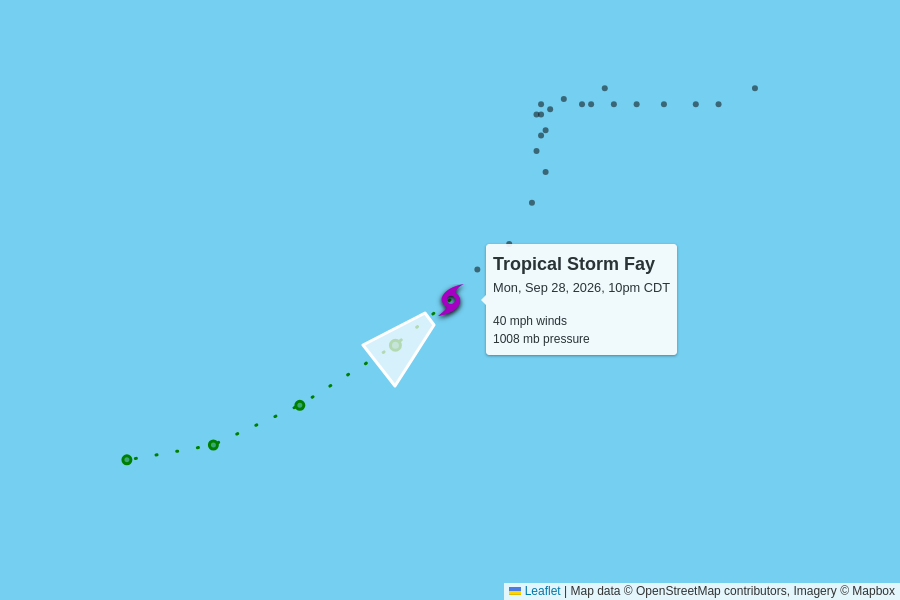
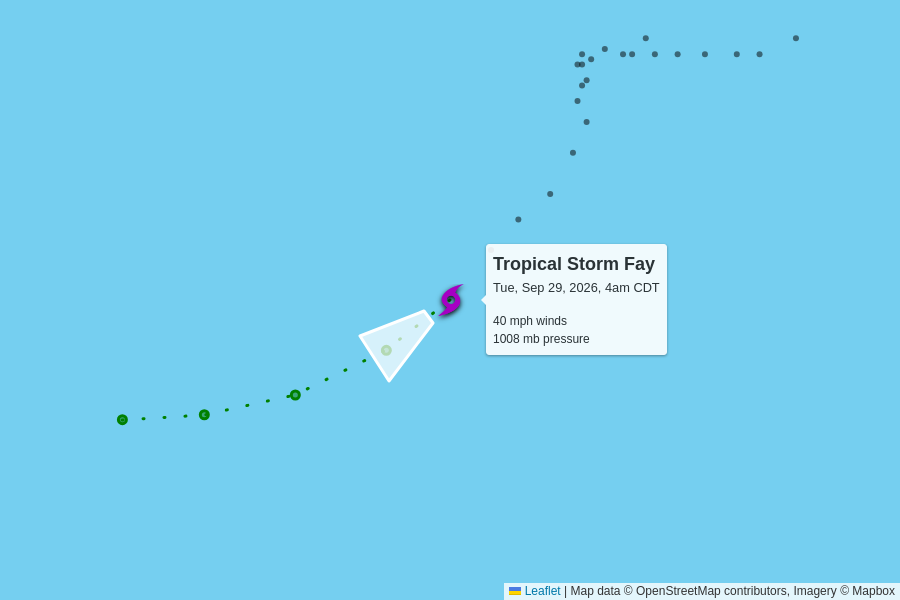
automatic update

diff --git a/docs/2026.html b/docs/2026.html
@@ -44,6 +44,95 @@
 
       <grid-container>
           <grid-row>
+            <script type="text/json" id="storm_data_AL062026">
+              {"pressure":[{"timestamp":"2026-09-19T15:00:00.000Z","value":1009},{"timestamp":"2026-09-19T21:00:00.000Z","value":1007},{"timestamp":"2026-09-20T03:00:00.000Z","value":1007},{"timestamp":"2026-09-20T09:00:00.000Z","value":1004},{"timestamp":"2026-09-20T15:00:00.000Z","value":1004},{"timestamp":"2026-09-20T21:00:00.000Z","value":999},{"timestamp":"2026-09-21T03:00:00.000Z","value":995},{"timestamp":"2026-09-21T09:00:00.000Z","value":997},{"timestamp":"2026-09-21T15:00:00.000Z","value":1000},{"timestamp":"2026-09-21T21:00:00.000Z","value":1004},{"timestamp":"2026-09-22T03:00:00.000Z","value":1008},{"timestamp":"2026-09-22T09:00:00.000Z","value":1009},{"timestamp":"2026-09-22T15:00:00.000Z","value":1010},{"timestamp":"2026-09-22T21:00:00.000Z","value":1011},{"timestamp":"2026-09-23T21:00:00.000Z","value":1011},{"timestamp":"2026-09-24T03:00:00.000Z","value":1010},{"timestamp":"2026-09-24T09:00:00.000Z","value":1010},{"timestamp":"2026-09-24T15:00:00.000Z","value":1005},{"timestamp":"2026-09-24T21:00:00.000Z","value":1005},{"timestamp":"2026-09-25T03:00:00.000Z","value":1005},{"timestamp":"2026-09-25T09:00:00.000Z","value":1004},{"timestamp":"2026-09-25T15:00:00.000Z","value":1002},{"timestamp":"2026-09-25T21:00:00.000Z","value":1004},{"timestamp":"2026-09-26T03:00:00.000Z","value":1006},{"timestamp":"2026-09-26T09:00:00.000Z","value":1009},{"timestamp":"2026-09-26T15:00:00.000Z","value":1009},{"timestamp":"2026-09-26T21:00:00.000Z","value":1009},{"timestamp":"2026-09-27T03:00:00.000Z","value":1010},{"timestamp":"2026-09-27T09:00:00.000Z","value":1010},{"timestamp":"2026-09-27T15:00:00.000Z","value":1010},{"timestamp":"2026-09-27T21:00:00.000Z","value":1011},{"timestamp":"2026-09-28T03:00:00.000Z","value":1012},{"timestamp":"2026-09-28T09:00:00.000Z","value":1012},{"timestamp":"2026-09-28T15:00:00.000Z","value":1011},{"timestamp":"2026-09-28T21:00:00.000Z","value":1011},{"timestamp":"2026-09-29T03:00:00.000Z","value":1008},{"timestamp":"2026-09-29T09:00:00.000Z","value":1008}],"wind":[{"timestamp":"2026-09-19T15:00:00.000Z","value":35},{"timestamp":"2026-09-19T21:00:00.000Z","value":35},{"timestamp":"2026-09-20T03:00:00.000Z","value":35},{"timestamp":"2026-09-20T09:00:00.000Z","value":45},{"timestamp":"2026-09-20T15:00:00.000Z","value":60},{"timestamp":"2026-09-20T21:00:00.000Z","value":65},{"timestamp":"2026-09-21T03:00:00.000Z","value":70},{"timestamp":"2026-09-21T09:00:00.000Z","value":65},{"timestamp":"2026-09-21T15:00:00.000Z","value":50},{"timestamp":"2026-09-21T21:00:00.000Z","value":45},{"timestamp":"2026-09-22T03:00:00.000Z","value":40},{"timestamp":"2026-09-22T09:00:00.000Z","value":40},{"timestamp":"2026-09-22T15:00:00.000Z","value":35},{"timestamp":"2026-09-22T21:00:00.000Z","value":35},{"timestamp":"2026-09-23T21:00:00.000Z","value":35},{"timestamp":"2026-09-24T03:00:00.000Z","value":40},{"timestamp":"2026-09-24T09:00:00.000Z","value":40},{"timestamp":"2026-09-24T15:00:00.000Z","value":50},{"timestamp":"2026-09-24T21:00:00.000Z","value":50},{"timestamp":"2026-09-25T03:00:00.000Z","value":50},{"timestamp":"2026-09-25T09:00:00.000Z","value":50},{"timestamp":"2026-09-25T15:00:00.000Z","value":60},{"timestamp":"2026-09-25T21:00:00.000Z","value":50},{"timestamp":"2026-09-26T03:00:00.000Z","value":40},{"timestamp":"2026-09-26T09:00:00.000Z","value":35},{"timestamp":"2026-09-26T15:00:00.000Z","value":35},{"timestamp":"2026-09-26T21:00:00.000Z","value":35},{"timestamp":"2026-09-27T03:00:00.000Z","value":35},{"timestamp":"2026-09-27T09:00:00.000Z","value":35},{"timestamp":"2026-09-27T15:00:00.000Z","value":35},{"timestamp":"2026-09-27T21:00:00.000Z","value":35},{"timestamp":"2026-09-28T03:00:00.000Z","value":30},{"timestamp":"2026-09-28T09:00:00.000Z","value":35},{"timestamp":"2026-09-28T15:00:00.000Z","value":35},{"timestamp":"2026-09-28T21:00:00.000Z","value":35},{"timestamp":"2026-09-29T03:00:00.000Z","value":40},{"timestamp":"2026-09-29T09:00:00.000Z","value":40}]}
+            </script>              <grid-container class="storm">
+                <grid-row onClick="toggle('storm_AL062026')">
+                  <h2>
+                    Tropical Storm Fay
+                    <div class="updated">
+                      last updated <time datetime="2026-09-29T09:00:00.000Z">2026-09-29T09:00:00.000Z</time>
+                    </div>
+                  </h2>
+                </grid-row>
+                <grid-row id="storm_AL062026">
+                  <grid-column>
+                    <table>
+                      <tr>
+                        <th>wind speed</th>
+                        <th>central pressure</th>
+                        <th>movement</th>
+                        <th>data (CSV)</th>
+                        <th>National Hurricane Center</th>
+                      </tr>
+                      <tr>
+                        <td>
+                          40 mph
+                          <br>
+                          0 mph since last update
+                        </td>
+                        <td>
+                          1008 mb
+                          <br>
+                          0 mb since last update
+                        </td>
+                        <td>
+                          13 mph to the southwest
+                          <br>
+                          <span style="display: inline-block; font-size: 1.5em; transform: rotate(235deg);">↑</span>
+                        </td>
+                        <td>
+                          <a href="https://raw.githubusercontent.com/mgwalker/atlantic-hurricanes/main/data/csv/AL062026.csv">AL062026.csv</a>
+                        </td>
+                        <td>
+                          <a href="https://www.nhc.noaa.gov/archive/2026/FAY.shtml?">NHC advisories</a>
+                        </td>
+                      </tr>
+                      <tr>
+                        <td colspan="5">
+                        </td>
+                      </tr>
+                    </table>
+                    <figure>
+                      <img src="AL062026.png">
+                      <figcaption>
+                        Map data &copy; <a href="https://www.openstreetmap.org/copyright">OpenStreetMap</a> contributors, Imagery &copy; <a href="https://www.mapbox.com/">Mapbox</a> | <a href="https://www.mapbox.com/map-feedback/" target="_blank">Improve this map</a>
+                      </figcaption>
+                    </figure>
+                      <div class="chart-container">
+                        <h3>Maximum sustained winds</h3>
+                        <div>
+                          <canvas id="chart_wind_AL062026"></canvas>
+                        </div>
+                      </div>
+                      <div class="chart-container">
+                        <h3>Minimum central pressure</h3>
+                        <div style="width:100%;">
+                          <canvas id="chart_pressure_AL062026"></canvas>
+                        </div>
+                      </div>
+                    
+                    
+                    <script type="module">
+                      const data = JSON.parse(document.getElementById("storm_data_AL062026").textContent);
+                      
+                      if(data.wind) {
+                        const canvas = document.getElementById("chart_wind_AL062026");
+                        createChart(canvas, data.wind, "mph");
+                      }
+                      if(data.pressure) {
+                        const canvas = document.getElementById("chart_pressure_AL062026");
+                        createChart(canvas, data.pressure, "mb");
+                      }
+                      if(data.extents) {
+                        const canvas = document.getElementById("chart_extents_AL062026");
+                        createExtentChart(canvas, data.extents.tropical, data.extents.hurricane, "miles");
+                      }
+                    </script>
+                  </grid-column>
+                </grid-row>
+              </grid-container>          </grid-row>
+          <grid-row>
             <script type="text/json" id="storm_data_AL082026">
               {"pressure":[{"timestamp":"2026-09-28T15:00:00.000Z","value":1006},{"timestamp":"2026-09-28T21:00:00.000Z","value":1006},{"timestamp":"2026-09-29T03:00:00.000Z","value":1002},{"timestamp":"2026-09-29T09:00:00.000Z","value":1002}],"wind":[{"timestamp":"2026-09-28T15:00:00.000Z","value":45},{"timestamp":"2026-09-28T21:00:00.000Z","value":45},{"timestamp":"2026-09-29T03:00:00.000Z","value":45},{"timestamp":"2026-09-29T09:00:00.000Z","value":45}]}
             </script>              <grid-container class="storm">
@@ -126,95 +215,6 @@
                       }
                       if(data.extents) {
                         const canvas = document.getElementById("chart_extents_AL082026");
-                        createExtentChart(canvas, data.extents.tropical, data.extents.hurricane, "miles");
-                      }
-                    </script>
-                  </grid-column>
-                </grid-row>
-              </grid-container>          </grid-row>
-          <grid-row>
-            <script type="text/json" id="storm_data_AL062026">
-              {"pressure":[{"timestamp":"2026-09-19T15:00:00.000Z","value":1009},{"timestamp":"2026-09-19T21:00:00.000Z","value":1007},{"timestamp":"2026-09-20T03:00:00.000Z","value":1007},{"timestamp":"2026-09-20T09:00:00.000Z","value":1004},{"timestamp":"2026-09-20T15:00:00.000Z","value":1004},{"timestamp":"2026-09-20T21:00:00.000Z","value":999},{"timestamp":"2026-09-21T03:00:00.000Z","value":995},{"timestamp":"2026-09-21T09:00:00.000Z","value":997},{"timestamp":"2026-09-21T15:00:00.000Z","value":1000},{"timestamp":"2026-09-21T21:00:00.000Z","value":1004},{"timestamp":"2026-09-22T03:00:00.000Z","value":1008},{"timestamp":"2026-09-22T09:00:00.000Z","value":1009},{"timestamp":"2026-09-22T15:00:00.000Z","value":1010},{"timestamp":"2026-09-22T21:00:00.000Z","value":1011},{"timestamp":"2026-09-23T21:00:00.000Z","value":1011},{"timestamp":"2026-09-24T03:00:00.000Z","value":1010},{"timestamp":"2026-09-24T09:00:00.000Z","value":1010},{"timestamp":"2026-09-24T15:00:00.000Z","value":1005},{"timestamp":"2026-09-24T21:00:00.000Z","value":1005},{"timestamp":"2026-09-25T03:00:00.000Z","value":1005},{"timestamp":"2026-09-25T09:00:00.000Z","value":1004},{"timestamp":"2026-09-25T15:00:00.000Z","value":1002},{"timestamp":"2026-09-25T21:00:00.000Z","value":1004},{"timestamp":"2026-09-26T03:00:00.000Z","value":1006},{"timestamp":"2026-09-26T09:00:00.000Z","value":1009},{"timestamp":"2026-09-26T15:00:00.000Z","value":1009},{"timestamp":"2026-09-26T21:00:00.000Z","value":1009},{"timestamp":"2026-09-27T03:00:00.000Z","value":1010},{"timestamp":"2026-09-27T09:00:00.000Z","value":1010},{"timestamp":"2026-09-27T15:00:00.000Z","value":1010},{"timestamp":"2026-09-27T21:00:00.000Z","value":1011},{"timestamp":"2026-09-28T03:00:00.000Z","value":1012},{"timestamp":"2026-09-28T09:00:00.000Z","value":1012},{"timestamp":"2026-09-28T15:00:00.000Z","value":1011},{"timestamp":"2026-09-28T21:00:00.000Z","value":1011},{"timestamp":"2026-09-29T03:00:00.000Z","value":1008}],"wind":[{"timestamp":"2026-09-19T15:00:00.000Z","value":35},{"timestamp":"2026-09-19T21:00:00.000Z","value":35},{"timestamp":"2026-09-20T03:00:00.000Z","value":35},{"timestamp":"2026-09-20T09:00:00.000Z","value":45},{"timestamp":"2026-09-20T15:00:00.000Z","value":60},{"timestamp":"2026-09-20T21:00:00.000Z","value":65},{"timestamp":"2026-09-21T03:00:00.000Z","value":70},{"timestamp":"2026-09-21T09:00:00.000Z","value":65},{"timestamp":"2026-09-21T15:00:00.000Z","value":50},{"timestamp":"2026-09-21T21:00:00.000Z","value":45},{"timestamp":"2026-09-22T03:00:00.000Z","value":40},{"timestamp":"2026-09-22T09:00:00.000Z","value":40},{"timestamp":"2026-09-22T15:00:00.000Z","value":35},{"timestamp":"2026-09-22T21:00:00.000Z","value":35},{"timestamp":"2026-09-23T21:00:00.000Z","value":35},{"timestamp":"2026-09-24T03:00:00.000Z","value":40},{"timestamp":"2026-09-24T09:00:00.000Z","value":40},{"timestamp":"2026-09-24T15:00:00.000Z","value":50},{"timestamp":"2026-09-24T21:00:00.000Z","value":50},{"timestamp":"2026-09-25T03:00:00.000Z","value":50},{"timestamp":"2026-09-25T09:00:00.000Z","value":50},{"timestamp":"2026-09-25T15:00:00.000Z","value":60},{"timestamp":"2026-09-25T21:00:00.000Z","value":50},{"timestamp":"2026-09-26T03:00:00.000Z","value":40},{"timestamp":"2026-09-26T09:00:00.000Z","value":35},{"timestamp":"2026-09-26T15:00:00.000Z","value":35},{"timestamp":"2026-09-26T21:00:00.000Z","value":35},{"timestamp":"2026-09-27T03:00:00.000Z","value":35},{"timestamp":"2026-09-27T09:00:00.000Z","value":35},{"timestamp":"2026-09-27T15:00:00.000Z","value":35},{"timestamp":"2026-09-27T21:00:00.000Z","value":35},{"timestamp":"2026-09-28T03:00:00.000Z","value":30},{"timestamp":"2026-09-28T09:00:00.000Z","value":35},{"timestamp":"2026-09-28T15:00:00.000Z","value":35},{"timestamp":"2026-09-28T21:00:00.000Z","value":35},{"timestamp":"2026-09-29T03:00:00.000Z","value":40}]}
-            </script>              <grid-container class="storm">
-                <grid-row onClick="toggle('storm_AL062026')">
-                  <h2>
-                    Tropical Storm Fay
-                    <div class="updated">
-                      last updated <time datetime="2026-09-29T03:00:00.000Z">2026-09-29T03:00:00.000Z</time>
-                    </div>
-                  </h2>
-                </grid-row>
-                <grid-row id="storm_AL062026">
-                  <grid-column>
-                    <table>
-                      <tr>
-                        <th>wind speed</th>
-                        <th>central pressure</th>
-                        <th>movement</th>
-                        <th>data (CSV)</th>
-                        <th>National Hurricane Center</th>
-                      </tr>
-                      <tr>
-                        <td>
-                          40 mph
-                          <br>
-                          +5 mph since last update
-                        </td>
-                        <td>
-                          1008 mb
-                          <br>
-                          -3 mb since last update
-                        </td>
-                        <td>
-                          10 mph to the southwest
-                          <br>
-                          <span style="display: inline-block; font-size: 1.5em; transform: rotate(230deg);">↑</span>
-                        </td>
-                        <td>
-                          <a href="https://raw.githubusercontent.com/mgwalker/atlantic-hurricanes/main/data/csv/AL062026.csv">AL062026.csv</a>
-                        </td>
-                        <td>
-                          <a href="https://www.nhc.noaa.gov/archive/2026/FAY.shtml?">NHC advisories</a>
-                        </td>
-                      </tr>
-                      <tr>
-                        <td colspan="5">
-                        </td>
-                      </tr>
-                    </table>
-                    <figure>
-                      <img src="AL062026.png">
-                      <figcaption>
-                        Map data &copy; <a href="https://www.openstreetmap.org/copyright">OpenStreetMap</a> contributors, Imagery &copy; <a href="https://www.mapbox.com/">Mapbox</a> | <a href="https://www.mapbox.com/map-feedback/" target="_blank">Improve this map</a>
-                      </figcaption>
-                    </figure>
-                      <div class="chart-container">
-                        <h3>Maximum sustained winds</h3>
-                        <div>
-                          <canvas id="chart_wind_AL062026"></canvas>
-                        </div>
-                      </div>
-                      <div class="chart-container">
-                        <h3>Minimum central pressure</h3>
-                        <div style="width:100%;">
-                          <canvas id="chart_pressure_AL062026"></canvas>
-                        </div>
-                      </div>
-                    
-                    
-                    <script type="module">
-                      const data = JSON.parse(document.getElementById("storm_data_AL062026").textContent);
-                      
-                      if(data.wind) {
-                        const canvas = document.getElementById("chart_wind_AL062026");
-                        createChart(canvas, data.wind, "mph");
-                      }
-                      if(data.pressure) {
-                        const canvas = document.getElementById("chart_pressure_AL062026");
-                        createChart(canvas, data.pressure, "mb");
-                      }
-                      if(data.extents) {
-                        const canvas = document.getElementById("chart_extents_AL062026");
                         createExtentChart(canvas, data.extents.tropical, data.extents.hurricane, "miles");
                       }
                     </script>

diff --git a/docs/index.html b/docs/index.html
@@ -44,6 +44,95 @@
 
       <grid-container>
           <grid-row>
+            <script type="text/json" id="storm_data_AL062026">
+              {"pressure":[{"timestamp":"2026-09-19T15:00:00.000Z","value":1009},{"timestamp":"2026-09-19T21:00:00.000Z","value":1007},{"timestamp":"2026-09-20T03:00:00.000Z","value":1007},{"timestamp":"2026-09-20T09:00:00.000Z","value":1004},{"timestamp":"2026-09-20T15:00:00.000Z","value":1004},{"timestamp":"2026-09-20T21:00:00.000Z","value":999},{"timestamp":"2026-09-21T03:00:00.000Z","value":995},{"timestamp":"2026-09-21T09:00:00.000Z","value":997},{"timestamp":"2026-09-21T15:00:00.000Z","value":1000},{"timestamp":"2026-09-21T21:00:00.000Z","value":1004},{"timestamp":"2026-09-22T03:00:00.000Z","value":1008},{"timestamp":"2026-09-22T09:00:00.000Z","value":1009},{"timestamp":"2026-09-22T15:00:00.000Z","value":1010},{"timestamp":"2026-09-22T21:00:00.000Z","value":1011},{"timestamp":"2026-09-23T21:00:00.000Z","value":1011},{"timestamp":"2026-09-24T03:00:00.000Z","value":1010},{"timestamp":"2026-09-24T09:00:00.000Z","value":1010},{"timestamp":"2026-09-24T15:00:00.000Z","value":1005},{"timestamp":"2026-09-24T21:00:00.000Z","value":1005},{"timestamp":"2026-09-25T03:00:00.000Z","value":1005},{"timestamp":"2026-09-25T09:00:00.000Z","value":1004},{"timestamp":"2026-09-25T15:00:00.000Z","value":1002},{"timestamp":"2026-09-25T21:00:00.000Z","value":1004},{"timestamp":"2026-09-26T03:00:00.000Z","value":1006},{"timestamp":"2026-09-26T09:00:00.000Z","value":1009},{"timestamp":"2026-09-26T15:00:00.000Z","value":1009},{"timestamp":"2026-09-26T21:00:00.000Z","value":1009},{"timestamp":"2026-09-27T03:00:00.000Z","value":1010},{"timestamp":"2026-09-27T09:00:00.000Z","value":1010},{"timestamp":"2026-09-27T15:00:00.000Z","value":1010},{"timestamp":"2026-09-27T21:00:00.000Z","value":1011},{"timestamp":"2026-09-28T03:00:00.000Z","value":1012},{"timestamp":"2026-09-28T09:00:00.000Z","value":1012},{"timestamp":"2026-09-28T15:00:00.000Z","value":1011},{"timestamp":"2026-09-28T21:00:00.000Z","value":1011},{"timestamp":"2026-09-29T03:00:00.000Z","value":1008},{"timestamp":"2026-09-29T09:00:00.000Z","value":1008}],"wind":[{"timestamp":"2026-09-19T15:00:00.000Z","value":35},{"timestamp":"2026-09-19T21:00:00.000Z","value":35},{"timestamp":"2026-09-20T03:00:00.000Z","value":35},{"timestamp":"2026-09-20T09:00:00.000Z","value":45},{"timestamp":"2026-09-20T15:00:00.000Z","value":60},{"timestamp":"2026-09-20T21:00:00.000Z","value":65},{"timestamp":"2026-09-21T03:00:00.000Z","value":70},{"timestamp":"2026-09-21T09:00:00.000Z","value":65},{"timestamp":"2026-09-21T15:00:00.000Z","value":50},{"timestamp":"2026-09-21T21:00:00.000Z","value":45},{"timestamp":"2026-09-22T03:00:00.000Z","value":40},{"timestamp":"2026-09-22T09:00:00.000Z","value":40},{"timestamp":"2026-09-22T15:00:00.000Z","value":35},{"timestamp":"2026-09-22T21:00:00.000Z","value":35},{"timestamp":"2026-09-23T21:00:00.000Z","value":35},{"timestamp":"2026-09-24T03:00:00.000Z","value":40},{"timestamp":"2026-09-24T09:00:00.000Z","value":40},{"timestamp":"2026-09-24T15:00:00.000Z","value":50},{"timestamp":"2026-09-24T21:00:00.000Z","value":50},{"timestamp":"2026-09-25T03:00:00.000Z","value":50},{"timestamp":"2026-09-25T09:00:00.000Z","value":50},{"timestamp":"2026-09-25T15:00:00.000Z","value":60},{"timestamp":"2026-09-25T21:00:00.000Z","value":50},{"timestamp":"2026-09-26T03:00:00.000Z","value":40},{"timestamp":"2026-09-26T09:00:00.000Z","value":35},{"timestamp":"2026-09-26T15:00:00.000Z","value":35},{"timestamp":"2026-09-26T21:00:00.000Z","value":35},{"timestamp":"2026-09-27T03:00:00.000Z","value":35},{"timestamp":"2026-09-27T09:00:00.000Z","value":35},{"timestamp":"2026-09-27T15:00:00.000Z","value":35},{"timestamp":"2026-09-27T21:00:00.000Z","value":35},{"timestamp":"2026-09-28T03:00:00.000Z","value":30},{"timestamp":"2026-09-28T09:00:00.000Z","value":35},{"timestamp":"2026-09-28T15:00:00.000Z","value":35},{"timestamp":"2026-09-28T21:00:00.000Z","value":35},{"timestamp":"2026-09-29T03:00:00.000Z","value":40},{"timestamp":"2026-09-29T09:00:00.000Z","value":40}]}
+            </script>              <grid-container class="storm">
+                <grid-row onClick="toggle('storm_AL062026')">
+                  <h2>
+                    Tropical Storm Fay
+                    <div class="updated">
+                      last updated <time datetime="2026-09-29T09:00:00.000Z">2026-09-29T09:00:00.000Z</time>
+                    </div>
+                  </h2>
+                </grid-row>
+                <grid-row id="storm_AL062026">
+                  <grid-column>
+                    <table>
+                      <tr>
+                        <th>wind speed</th>
+                        <th>central pressure</th>
+                        <th>movement</th>
+                        <th>data (CSV)</th>
+                        <th>National Hurricane Center</th>
+                      </tr>
+                      <tr>
+                        <td>
+                          40 mph
+                          <br>
+                          0 mph since last update
+                        </td>
+                        <td>
+                          1008 mb
+                          <br>
+                          0 mb since last update
+                        </td>
+                        <td>
+                          13 mph to the southwest
+                          <br>
+                          <span style="display: inline-block; font-size: 1.5em; transform: rotate(235deg);">↑</span>
+                        </td>
+                        <td>
+                          <a href="https://raw.githubusercontent.com/mgwalker/atlantic-hurricanes/main/data/csv/AL062026.csv">AL062026.csv</a>
+                        </td>
+                        <td>
+                          <a href="https://www.nhc.noaa.gov/archive/2026/FAY.shtml?">NHC advisories</a>
+                        </td>
+                      </tr>
+                      <tr>
+                        <td colspan="5">
+                        </td>
+                      </tr>
+                    </table>
+                    <figure>
+                      <img src="AL062026.png">
+                      <figcaption>
+                        Map data &copy; <a href="https://www.openstreetmap.org/copyright">OpenStreetMap</a> contributors, Imagery &copy; <a href="https://www.mapbox.com/">Mapbox</a> | <a href="https://www.mapbox.com/map-feedback/" target="_blank">Improve this map</a>
+                      </figcaption>
+                    </figure>
+                      <div class="chart-container">
+                        <h3>Maximum sustained winds</h3>
+                        <div>
+                          <canvas id="chart_wind_AL062026"></canvas>
+                        </div>
+                      </div>
+                      <div class="chart-container">
+                        <h3>Minimum central pressure</h3>
+                        <div style="width:100%;">
+                          <canvas id="chart_pressure_AL062026"></canvas>
+                        </div>
+                      </div>
+                    
+                    
+                    <script type="module">
+                      const data = JSON.parse(document.getElementById("storm_data_AL062026").textContent);
+                      
+                      if(data.wind) {
+                        const canvas = document.getElementById("chart_wind_AL062026");
+                        createChart(canvas, data.wind, "mph");
+                      }
+                      if(data.pressure) {
+                        const canvas = document.getElementById("chart_pressure_AL062026");
+                        createChart(canvas, data.pressure, "mb");
+                      }
+                      if(data.extents) {
+                        const canvas = document.getElementById("chart_extents_AL062026");
+                        createExtentChart(canvas, data.extents.tropical, data.extents.hurricane, "miles");
+                      }
+                    </script>
+                  </grid-column>
+                </grid-row>
+              </grid-container>          </grid-row>
+          <grid-row>
             <script type="text/json" id="storm_data_AL082026">
               {"pressure":[{"timestamp":"2026-09-28T15:00:00.000Z","value":1006},{"timestamp":"2026-09-28T21:00:00.000Z","value":1006},{"timestamp":"2026-09-29T03:00:00.000Z","value":1002},{"timestamp":"2026-09-29T09:00:00.000Z","value":1002}],"wind":[{"timestamp":"2026-09-28T15:00:00.000Z","value":45},{"timestamp":"2026-09-28T21:00:00.000Z","value":45},{"timestamp":"2026-09-29T03:00:00.000Z","value":45},{"timestamp":"2026-09-29T09:00:00.000Z","value":45}]}
             </script>              <grid-container class="storm">
@@ -126,95 +215,6 @@
                       }
                       if(data.extents) {
                         const canvas = document.getElementById("chart_extents_AL082026");
-                        createExtentChart(canvas, data.extents.tropical, data.extents.hurricane, "miles");
-                      }
-                    </script>
-                  </grid-column>
-                </grid-row>
-              </grid-container>          </grid-row>
-          <grid-row>
-            <script type="text/json" id="storm_data_AL062026">
-              {"pressure":[{"timestamp":"2026-09-19T15:00:00.000Z","value":1009},{"timestamp":"2026-09-19T21:00:00.000Z","value":1007},{"timestamp":"2026-09-20T03:00:00.000Z","value":1007},{"timestamp":"2026-09-20T09:00:00.000Z","value":1004},{"timestamp":"2026-09-20T15:00:00.000Z","value":1004},{"timestamp":"2026-09-20T21:00:00.000Z","value":999},{"timestamp":"2026-09-21T03:00:00.000Z","value":995},{"timestamp":"2026-09-21T09:00:00.000Z","value":997},{"timestamp":"2026-09-21T15:00:00.000Z","value":1000},{"timestamp":"2026-09-21T21:00:00.000Z","value":1004},{"timestamp":"2026-09-22T03:00:00.000Z","value":1008},{"timestamp":"2026-09-22T09:00:00.000Z","value":1009},{"timestamp":"2026-09-22T15:00:00.000Z","value":1010},{"timestamp":"2026-09-22T21:00:00.000Z","value":1011},{"timestamp":"2026-09-23T21:00:00.000Z","value":1011},{"timestamp":"2026-09-24T03:00:00.000Z","value":1010},{"timestamp":"2026-09-24T09:00:00.000Z","value":1010},{"timestamp":"2026-09-24T15:00:00.000Z","value":1005},{"timestamp":"2026-09-24T21:00:00.000Z","value":1005},{"timestamp":"2026-09-25T03:00:00.000Z","value":1005},{"timestamp":"2026-09-25T09:00:00.000Z","value":1004},{"timestamp":"2026-09-25T15:00:00.000Z","value":1002},{"timestamp":"2026-09-25T21:00:00.000Z","value":1004},{"timestamp":"2026-09-26T03:00:00.000Z","value":1006},{"timestamp":"2026-09-26T09:00:00.000Z","value":1009},{"timestamp":"2026-09-26T15:00:00.000Z","value":1009},{"timestamp":"2026-09-26T21:00:00.000Z","value":1009},{"timestamp":"2026-09-27T03:00:00.000Z","value":1010},{"timestamp":"2026-09-27T09:00:00.000Z","value":1010},{"timestamp":"2026-09-27T15:00:00.000Z","value":1010},{"timestamp":"2026-09-27T21:00:00.000Z","value":1011},{"timestamp":"2026-09-28T03:00:00.000Z","value":1012},{"timestamp":"2026-09-28T09:00:00.000Z","value":1012},{"timestamp":"2026-09-28T15:00:00.000Z","value":1011},{"timestamp":"2026-09-28T21:00:00.000Z","value":1011},{"timestamp":"2026-09-29T03:00:00.000Z","value":1008}],"wind":[{"timestamp":"2026-09-19T15:00:00.000Z","value":35},{"timestamp":"2026-09-19T21:00:00.000Z","value":35},{"timestamp":"2026-09-20T03:00:00.000Z","value":35},{"timestamp":"2026-09-20T09:00:00.000Z","value":45},{"timestamp":"2026-09-20T15:00:00.000Z","value":60},{"timestamp":"2026-09-20T21:00:00.000Z","value":65},{"timestamp":"2026-09-21T03:00:00.000Z","value":70},{"timestamp":"2026-09-21T09:00:00.000Z","value":65},{"timestamp":"2026-09-21T15:00:00.000Z","value":50},{"timestamp":"2026-09-21T21:00:00.000Z","value":45},{"timestamp":"2026-09-22T03:00:00.000Z","value":40},{"timestamp":"2026-09-22T09:00:00.000Z","value":40},{"timestamp":"2026-09-22T15:00:00.000Z","value":35},{"timestamp":"2026-09-22T21:00:00.000Z","value":35},{"timestamp":"2026-09-23T21:00:00.000Z","value":35},{"timestamp":"2026-09-24T03:00:00.000Z","value":40},{"timestamp":"2026-09-24T09:00:00.000Z","value":40},{"timestamp":"2026-09-24T15:00:00.000Z","value":50},{"timestamp":"2026-09-24T21:00:00.000Z","value":50},{"timestamp":"2026-09-25T03:00:00.000Z","value":50},{"timestamp":"2026-09-25T09:00:00.000Z","value":50},{"timestamp":"2026-09-25T15:00:00.000Z","value":60},{"timestamp":"2026-09-25T21:00:00.000Z","value":50},{"timestamp":"2026-09-26T03:00:00.000Z","value":40},{"timestamp":"2026-09-26T09:00:00.000Z","value":35},{"timestamp":"2026-09-26T15:00:00.000Z","value":35},{"timestamp":"2026-09-26T21:00:00.000Z","value":35},{"timestamp":"2026-09-27T03:00:00.000Z","value":35},{"timestamp":"2026-09-27T09:00:00.000Z","value":35},{"timestamp":"2026-09-27T15:00:00.000Z","value":35},{"timestamp":"2026-09-27T21:00:00.000Z","value":35},{"timestamp":"2026-09-28T03:00:00.000Z","value":30},{"timestamp":"2026-09-28T09:00:00.000Z","value":35},{"timestamp":"2026-09-28T15:00:00.000Z","value":35},{"timestamp":"2026-09-28T21:00:00.000Z","value":35},{"timestamp":"2026-09-29T03:00:00.000Z","value":40}]}
-            </script>              <grid-container class="storm">
-                <grid-row onClick="toggle('storm_AL062026')">
-                  <h2>
-                    Tropical Storm Fay
-                    <div class="updated">
-                      last updated <time datetime="2026-09-29T03:00:00.000Z">2026-09-29T03:00:00.000Z</time>
-                    </div>
-                  </h2>
-                </grid-row>
-                <grid-row id="storm_AL062026">
-                  <grid-column>
-                    <table>
-                      <tr>
-                        <th>wind speed</th>
-                        <th>central pressure</th>
-                        <th>movement</th>
-                        <th>data (CSV)</th>
-                        <th>National Hurricane Center</th>
-                      </tr>
-                      <tr>
-                        <td>
-                          40 mph
-                          <br>
-                          +5 mph since last update
-                        </td>
-                        <td>
-                          1008 mb
-                          <br>
-                          -3 mb since last update
-                        </td>
-                        <td>
-                          10 mph to the southwest
-                          <br>
-                          <span style="display: inline-block; font-size: 1.5em; transform: rotate(230deg);">↑</span>
-                        </td>
-                        <td>
-                          <a href="https://raw.githubusercontent.com/mgwalker/atlantic-hurricanes/main/data/csv/AL062026.csv">AL062026.csv</a>
-                        </td>
-                        <td>
-                          <a href="https://www.nhc.noaa.gov/archive/2026/FAY.shtml?">NHC advisories</a>
-                        </td>
-                      </tr>
-                      <tr>
-                        <td colspan="5">
-                        </td>
-                      </tr>
-                    </table>
-                    <figure>
-                      <img src="AL062026.png">
-                      <figcaption>
-                        Map data &copy; <a href="https://www.openstreetmap.org/copyright">OpenStreetMap</a> contributors, Imagery &copy; <a href="https://www.mapbox.com/">Mapbox</a> | <a href="https://www.mapbox.com/map-feedback/" target="_blank">Improve this map</a>
-                      </figcaption>
-                    </figure>
-                      <div class="chart-container">
-                        <h3>Maximum sustained winds</h3>
-                        <div>
-                          <canvas id="chart_wind_AL062026"></canvas>
-                        </div>
-                      </div>
-                      <div class="chart-container">
-                        <h3>Minimum central pressure</h3>
-                        <div style="width:100%;">
-                          <canvas id="chart_pressure_AL062026"></canvas>
-                        </div>
-                      </div>
-                    
-                    
-                    <script type="module">
-                      const data = JSON.parse(document.getElementById("storm_data_AL062026").textContent);
-                      
-                      if(data.wind) {
-                        const canvas = document.getElementById("chart_wind_AL062026");
-                        createChart(canvas, data.wind, "mph");
-                      }
-                      if(data.pressure) {
-                        const canvas = document.getElementById("chart_pressure_AL062026");
-                        createChart(canvas, data.pressure, "mb");
-                      }
-                      if(data.extents) {
-                        const canvas = document.getElementById("chart_extents_AL062026");
                         createExtentChart(canvas, data.extents.tropical, data.extents.hurricane, "miles");
                       }
                     </script>
